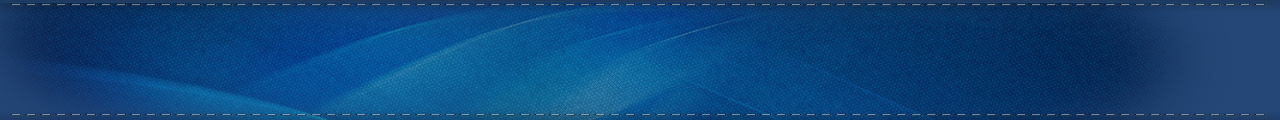
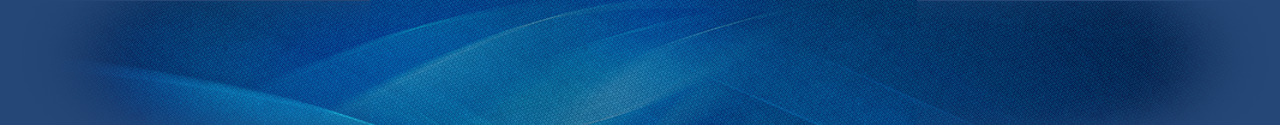
Corrected background for footer and header

diff --git a/sites/all/themes/tradexperts/css/styles.css b/sites/all/themes/tradexperts/css/styles.css
@@ -40,29 +40,20 @@ a:hover {
 header#header {
 	padding: 0;
 	width: 100%;
+	height: 132px;
+	margin-top: 1px;
+	position: relative;
+}
+header#header > .header-content {
+	margin: 0 auto;
+	background-color: #214575;
 	background-image: url(../images/header-bg.png);
 	background-repeat: no-repeat;
 	background-position: center center;
-	height: 125px;
-}
-/*header#header:before {
-	background: url(../images/full-line.png);
-	content: ' ';
-	height: 2px;
-	width: 100%;
-}
-header#header:after {
-	background: url(../images/full-line.png);
-	content: ' ';
-	height: 2px;
-	width: 100%;
-	margin-top: 11px;
-	margin-bottom: -1px;
-}*/
-header#header > .header-content {
-	margin: 0 auto;
-	padding-left: 25px;
-	width: 955px;
+	padding-left: 167px;
+	padding-top: 43px;
+	height: 90px;
+	width: 1113px;
 }
 header#header * {
 	outline: none !important;
@@ -83,7 +74,7 @@ header#header * {
 	height: 46px;
 	padding: 0;
 	width: 705px;
-	margin-top: 36px;
+	margin-top: 0;
 	line-height: 38px;
 }
 #header ul.menu li {
@@ -405,15 +396,6 @@ form.user-login-block .links a {
 	padding: 7px 37px;
 	text-transform: uppercase;
 }
-footer#footer {
-	background-image: url(../images/footer-bg.png);
-	background-position: center center;
-	background-repeat: no-repeat;
-	height: 125px;
-	margin-top: 10px;
-	padding: 0;
-	width: 100%;
-}
 .footer-logo-image {
 	background-image: url(../images/tradeexpert-footer-logo.png);
 	background-position: center;
@@ -426,6 +408,7 @@ footer#footer {
 }
 #block-block-1 {
 	display: inline-block;
+	margin-bottom: 0;
 }
 #block-block-2 {
 	color: #ffffff;
@@ -437,6 +420,9 @@ footer#footer {
 	margin-left: 27px;
 	margin-top: -9px;
 	vertical-align: middle;
+	margin-bottom: 0;
+	position: relative;
+	bottom: 9px;
 }
 #block-block-2 a {
 	color: #ffffff;
@@ -778,4 +764,53 @@ nav.breadcrumb a {
 	height: 0;
 	clear: both;
 	visibility: hidden;
+}
+#header:before {
+	background: url(../images/header-step.png);
+	height: 133px;
+	position: absolute;
+	z-index: -1;
+	left: 0;
+	right: 0;
+	top: 0;
+	width: 100%;
+	content: ' ';
+	display: table;
+}
+#header .full-line,
+.footer .full-line {
+	width: 100%;
+	position: absolute;
+	height: 2px;
+	top: 2px;
+	left: 0;
+	background: url(../images/full-line.png);
+}
+.footer .full-line {
+	top: 4px;
+}
+#header .full-line:last-child {
+	bottom: 7px;
+	top: auto;
+}
+.footer .full-line:last-child {
+	bottom: 3px;
+	top: auto;
+}
+.footer {
+	padding: 0;
+	width: 100%;
+	height: 132px;
+	margin-top: 1px;
+	position: relative;
+}
+footer#footer {
+	background-color: #214575;
+	background-image: url(../images/footer-bg.png);
+	background-repeat: no-repeat;
+	background-position: center center;
+	margin: 0 auto;
+	padding: 0;
+	height: 133px;
+	width: 1280px;
 }

diff --git a/sites/all/themes/tradexperts/templates/page.tpl.php b/sites/all/themes/tradexperts/templates/page.tpl.php
@@ -11,6 +11,8 @@
 <div id="page">
 
   <header class="header" id="header" role="banner">
+    <div class="full-line"></div>
+    <div class="steps-bg"></div>
     <div class="header-content clearfix">
       <?php if ($logo): ?>
         <a href="<?php print $front_page; ?>" title="<?php print t('Home'); ?>" rel="home" class="header__logo" id="logo"><img src="<?php print $logo; ?>" alt="<?php print t('Home'); ?>" class="header__logo-image" /></a>
@@ -32,6 +34,8 @@
 
       <?php print render($page['header']); ?>
     </div>
+    <div class="steps-bg"></div>
+    <div class="full-line"></div>
   </header>
   <div id="page-content-wrapper" class="clearfix">
     <div id="page-content">
@@ -82,8 +86,10 @@
     </div>
   </div>
   <div class="footer">
+    <div class="full-line"></div>
     <?php
         print render($page['footer']);
     ?>
+    <div class="full-line"></div>
   </div>
 </div>
